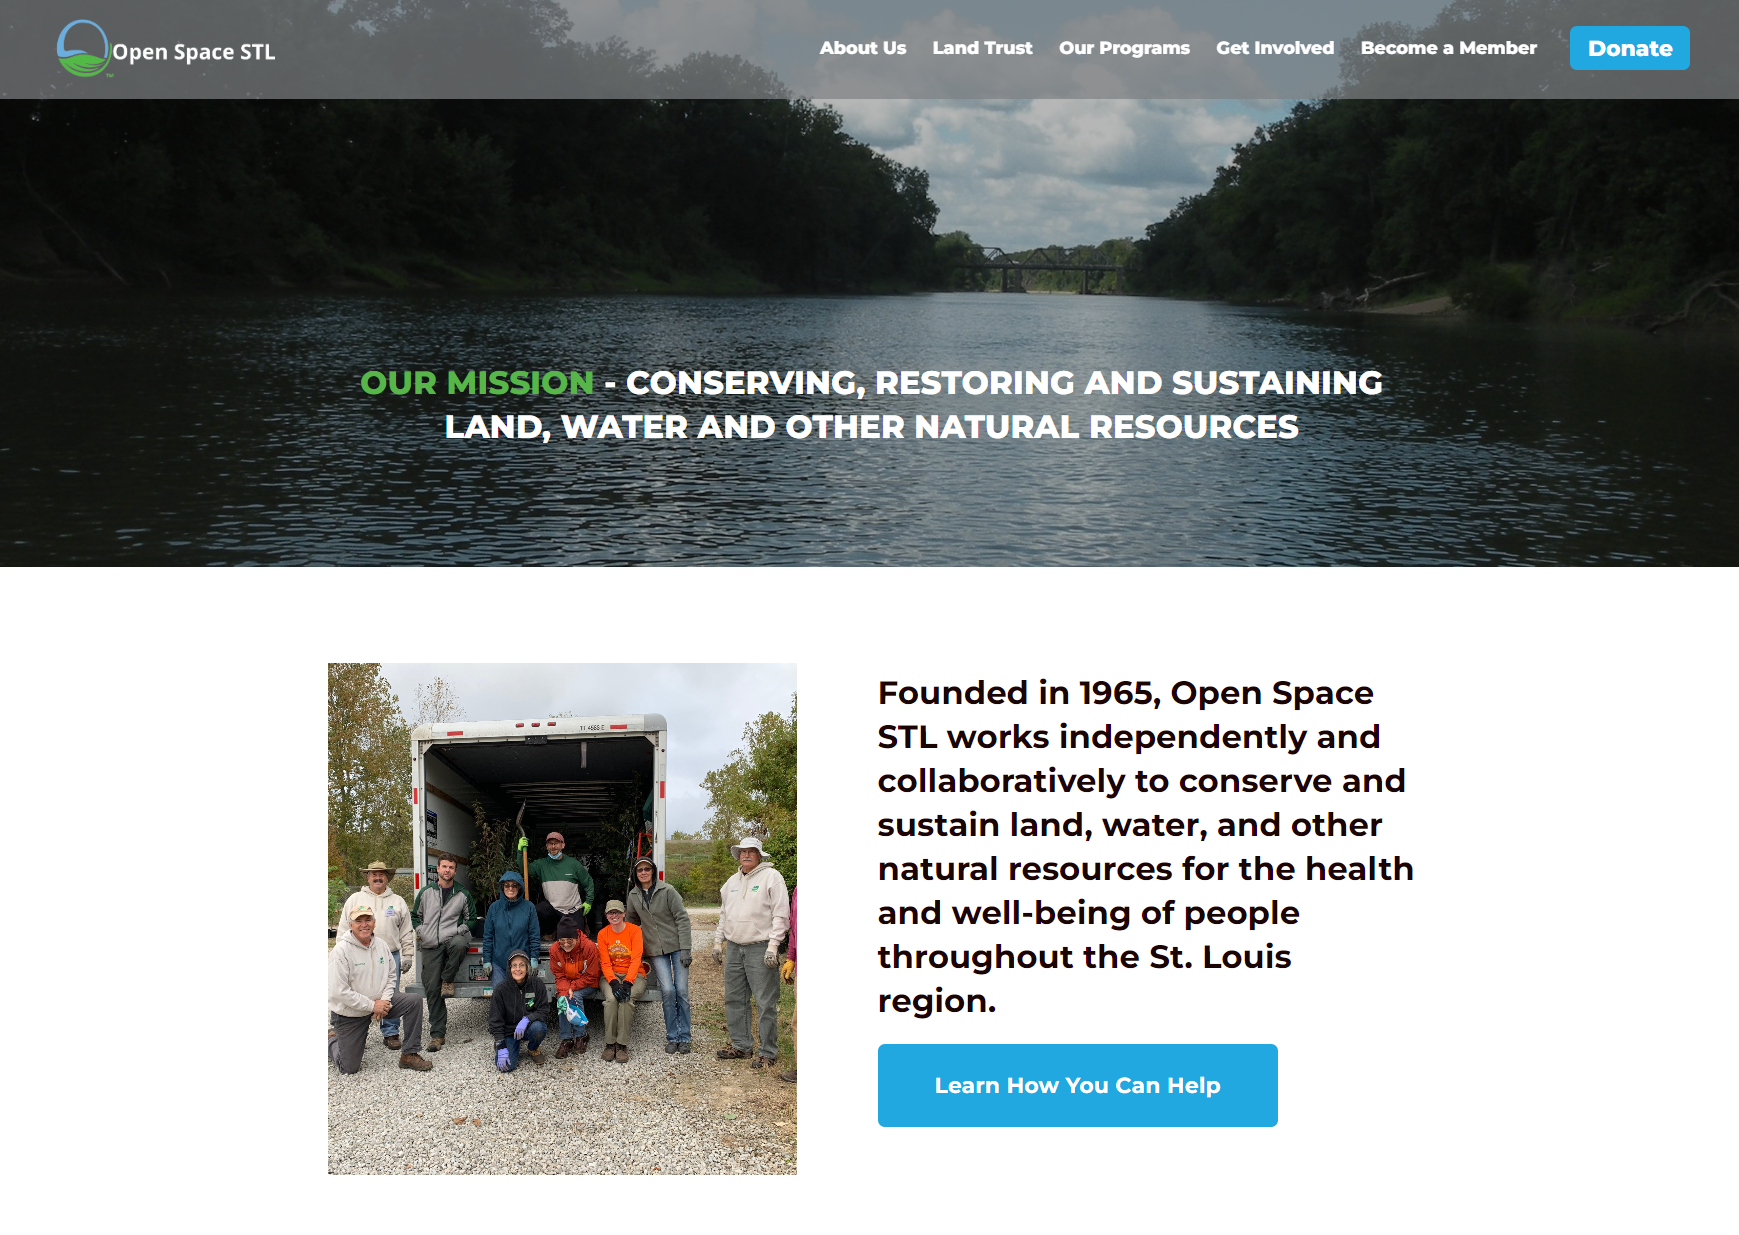
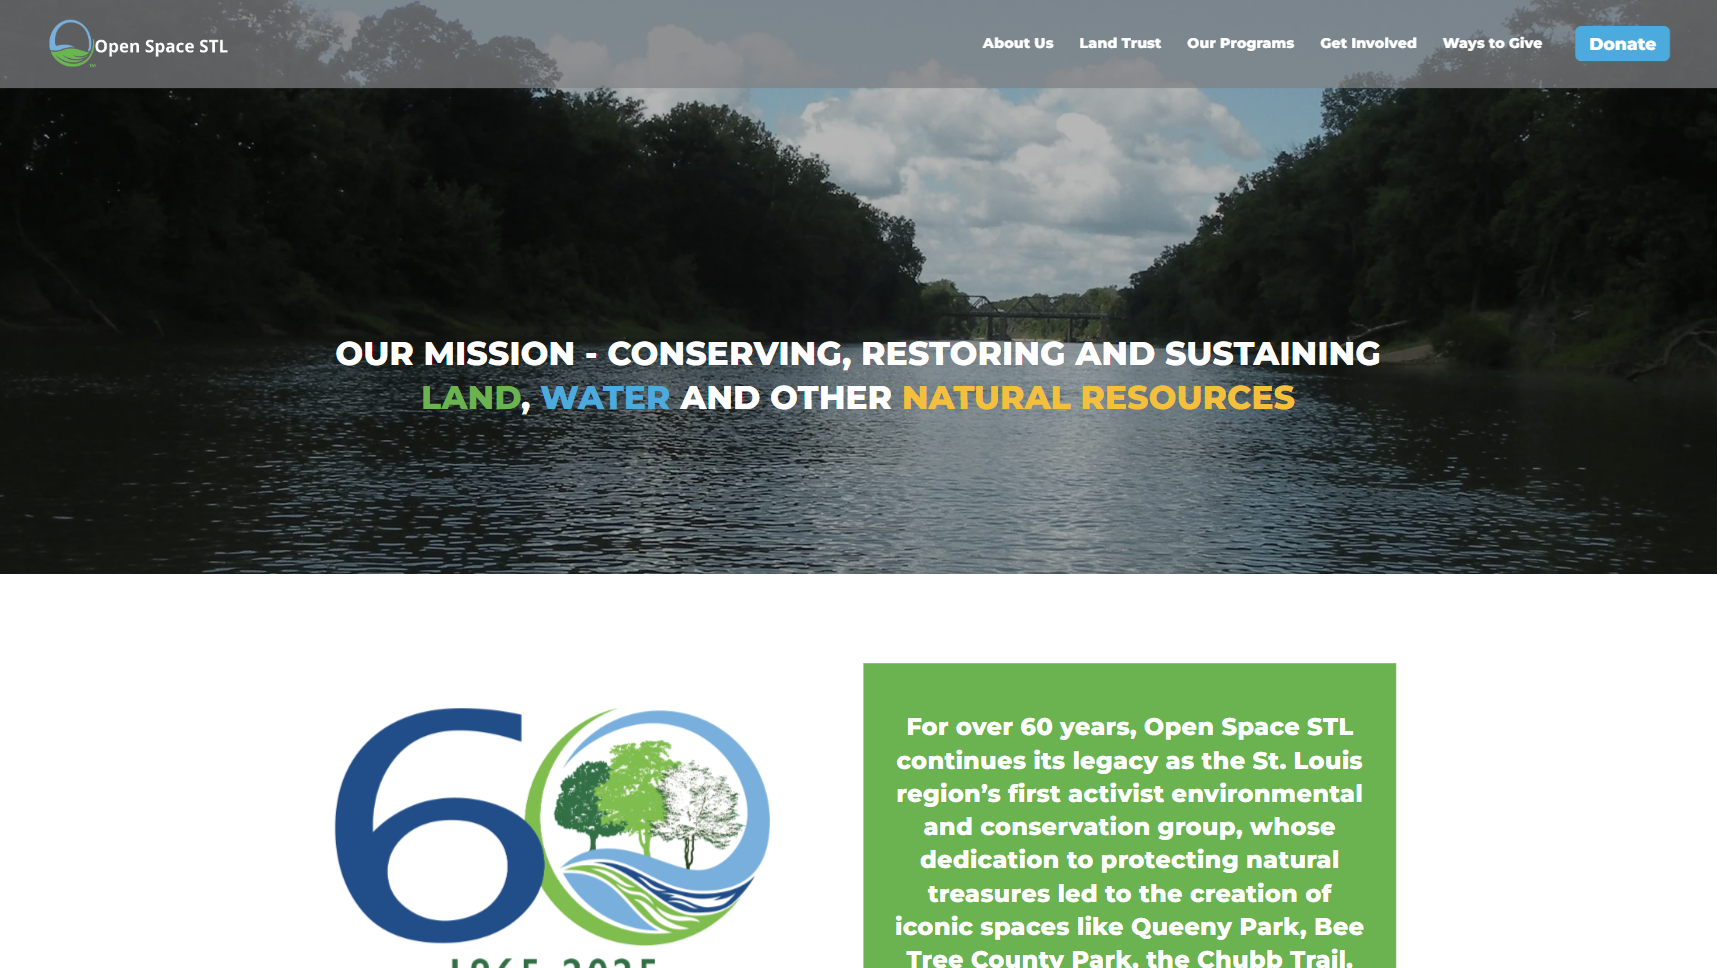
Update About and Experience sections with current info

diff --git a/index.html b/index.html
@@ -29,9 +29,9 @@
                 <h1 class="about-title name">&nbsp;Joseph&nbsp;</h1>
                 <h1 class="about-title">&#x1F44B</h1>
             </div>
-            <p class="about-description">I'm a recent college graduate with a B.S. in Computer Science. My forte is in Frontend Development, 
-                but I also have experience with Full-Stack as well. Additionally, I also do freelance web dev work. I also enjoy 
-                basketball, piano, reading, video games, and overall just being active and always learning something new.
+            <p class="about-description">I’m a full-stack software developer with experience building and maintaining production systems using Laravel, Vue.js, React, and Node.js.
+                In my recent roles, I’ve worked on internal operations platforms and customer-facing applications that support logistics, scheduling, billing, and user workflows.  In 
+                my free time, I enjoy basketball, piano, reading, video games, and just learning about new things! Feel free to reach out and connect!
             </p>
             <ul class="social-links">
                 <li><a href="https://github.com/joey-codes" target="_blank"><i class="fab fa-github"></i></a></li>
@@ -46,28 +46,58 @@
     <section id="experience">
         <h1 class="experience-title">Experience</h1>
         <div class="experience-section">
-            <h2 class="experience-header">Cal State University Northridge | Aug. 2019 - May 2023 </h2>
+            <h2 class="experience-header">Full Stack Software Dev | Puretec Industrial Water | Apr. 2025 - Feb. 2026 </h2>
+            <ul class="experience-description">
+                <li>Contributed to the development and ongoing maintenance of a critical internal operations platform 
+                    using Laravel, Vue.js, and MySQL supporting logistics, scheduling, invoicing, and customer 
+                    management
+                </li>
+                <li>Collaborated with senior developers and end users to gather feedback, clarify requirements, and 
+                    implement features aligned with operational workflows and business rules
+                </li>
+                <li>Diagnosed and resolved frontend and backend issues, improving system reliability and day-to-day 
+                    operational efficiency
+                </li>
+                <li>
+                    Wrote and maintained automated tests using Cypress and backend testing tools to ensure feature 
+                    stability and reduce regressions
+                </li>
+            </ul>
+        </div>
+        <div class="experience-section">
+            <h2 class="experience-header">Full Stack Software Dev (Contract) | Lving Inc. | Oct. 2024 - Apr. 2025</h2>
+            <ul class="experience-description">
+                <li>
+                    Spearheaded key web platform features, including custom service flows, billing logic, and 
+                    intuitive user interfaces, using React, Node.js, and Sharetribe’s REST API
+                </li>
+                <li>
+                    Developed a mobile app using Flutterflow integrated with Firebase
+                </li>
+                <li>
+                    Utilized Google Cloud Platform APIs and deployed application with Docker and Cloud Run 
+                </li>
+            </ul>
+        </div>
+        <div class="experience-section">
+            <h2 class="experience-header">Education - Cal State University Northridge </h2>
             <ul class="experience-description">
                 <li>B.S. in Computer Science | Graduated <i>Magna Cum Laude</i></li>
             </ul>
         </div>
         <div class="experience-section">
-            <h2 class="experience-header">Contract Frontend Developer | Dec. 2021 - Present</h2>
+            <h2 class="experience-header">Freelance Web Dev</h2>
             <ul class="experience-description">
-                <li>Starting junior year of college, undertook independent web development work for various
-                    organizations/nonprofits</li>
-                <li>Responsibilities include the design, development, SEO, and maintenance of dynamic web applications
-                    tailored to meet the unique needs of each client</li>
+                <li>I've also done freelance web development for businesses and nonprofits. See below for examples of past work!</li>
             </ul>
         </div>
-        <h2 class="experience-header">Work Examples</h2>
         <div class="gallery">
             <input type="checkbox">
             <img src="images/silva_boxing.png">
             <img src="images/st_michael.png">
-            <img src="images/healing_flower_child.png">
             <img src="images/open_space_stl.png">
             <img src="images/crossroads_youth.png">
+            <img src="images/healing_flower_child.png">
         </div>
     </section>
 

diff --git a/script.js b/script.js
@@ -6,7 +6,11 @@ document.addEventListener('DOMContentLoaded', function () {
     const starsContainer = document.getElementById('stars-container'); 
     const sidebar = document.getElementById('sidebar'); 
 
-    const observerThresh = { threshold: .5 };
+    const observerThresh = {
+        root: null,
+        rootMargin: '-40% 0px -40% 0px',
+        threshold: 0
+    };
 
     const observer = new IntersectionObserver((entries, observer) => {
         entries.forEach(entry => {
@@ -296,13 +300,13 @@ galleryImages.forEach(function(image) {
         if (image.src.includes("silva_boxing.png")) {
             customText = `<a href="https://silvaboxing-mma.com" target="_blank"><h2>Silva Boxing MMA</h2></a><p>Silva Boxing & MMA is a boxing & MMA gym located in West Hills, CA. They offer training for everyone at any fitness level, from the average person who wants to get in shape to the amateur/pro MMA fighter who's ready to take their skills to the next level.</p>`;
         } else if (image.src.includes("open_space_stl.png")) {
-            customText = `<a href="https://jaguar-cube-p65r.squarespace.com/" target="_blank"><h2>Open Space STL</h2></a><p>Open Space STL is a nonprofit that works independently and collaboratively to conserve and sustain land, water, and other natural resources for the health and well-being of people throughout the St. Louis region.</p>`;
+            customText = `<a href="https://www.openspacestl.org/" target="_blank"><h2>Open Space STL</h2></a><p>Open Space STL is a nonprofit that works independently and collaboratively to conserve and sustain land, water, and other natural resources for the health and well-being of people throughout the St. Louis region.</p>`;
         } else if (image.src.includes("st_michael.png")) {
             customText = `<a href="https://stmichaelvannuys.org" target="_blank"><h2>St Michael Antiochian Orthodox Church</h2></a><p>St. Michael in Van Nuys began serving Orthodox Christians in the San Fernando Valley on January 12, 1969.</p>`;
         } else if (image.src.includes("crossroads_youth.png")) {
             customText = `<a href="https://crossroadsyouth-communitygroup.org" target="_blank"><h2>Crossroads Youth and Community Group</h2></a><p>Crossroads is a nonprofit based in Tuscon, Arizona that provides resources & services that support the transition of youth & those aging out of foster care from homelessness to self-sufficiency and stable independent living.</p>`;
         } else if (image.src.includes("healing_flower_child.png")) {
-            customText = `<a href="https://healingflowerchild.com" target="_blank"><h2>Healing Flower Child</h2></a><p>Energy healer & yoga teacher, offering yoga classes, chakra attunements, and private lessons.</p>`;
+            customText = `<h2>Healing Flower Child</h2></a><p>Energy healer & yoga teacher, offering yoga classes, chakra attunements, and private lessons.</p>`;
         }
 
         openModal(image.src, customText);
@@ -351,18 +355,3 @@ document.addEventListener('DOMContentLoaded', () => {
         });
     });
 });
-
-/* document.addEventListener('DOMContentLoaded', () => {
-    const cube = document.querySelector('.cube');
-  
-    cube.addEventListener('click', () => {
-      cube.classList.add('clicked');
-      
-      // Optionally, remove the class after the animation ends if needed
-      cube.addEventListener('animationend', () => {
-        cube.classList.remove('clicked');
-      });
-    });
-  });
-   */
-

diff --git a/styles.css b/styles.css
@@ -53,6 +53,10 @@ section {
     padding: 0.8rem;
 }
 
+#experience {
+    height: 150vh;
+}
+
 #about, #experience, #projects, #skills {
     padding-left: 30%;
     padding-right: 10%;
@@ -532,7 +536,7 @@ section {
 
     .social-links { padding: 0; }
 
-    #experience { height: 120vh; }
+    #experience { min-height: fit-content }
 
     #projects { padding-top: 30vh; }
 
@@ -541,31 +545,34 @@ section {
         padding-top: 10px;
     }
 
+    .gallery {
+        margin-bottom: 120vh;
+    }
+
     .gallery input { 
         height: 4rem;
         width: 4rem;
     }
 
     .gallery > input:checked ~ img:nth-of-type(1) {
-        transform: translate(-8rem, 8rem) scale(2.5); 
+        transform: translate(0, 12rem) scale(4);
     }
-    
+
     .gallery > input:checked ~ img:nth-of-type(2) {
-        transform: translate(8rem, 8rem) scale(2.5);
+        transform: translate(0, 28rem) scale(4);
     }
-    
+
     .gallery > input:checked ~ img:nth-of-type(3) {
-        transform: translate(-8rem, 19rem) scale(2.5);
+        transform: translate(0, 44rem) scale(4);
     }
-    
+
     .gallery > input:checked ~ img:nth-of-type(4) {
-        transform: translate(8rem, 19rem) scale(2.5);
+        transform: translate(0, 60rem) scale(4);
     }
 
     .gallery > input:checked ~ img:nth-of-type(5) {
-        transform: translate(-8rem, 30rem) scale(2.5);
+        transform: translate(0, 76rem) scale(4);
     }
-
 
     .modal-content { width: 27rem; }
 
